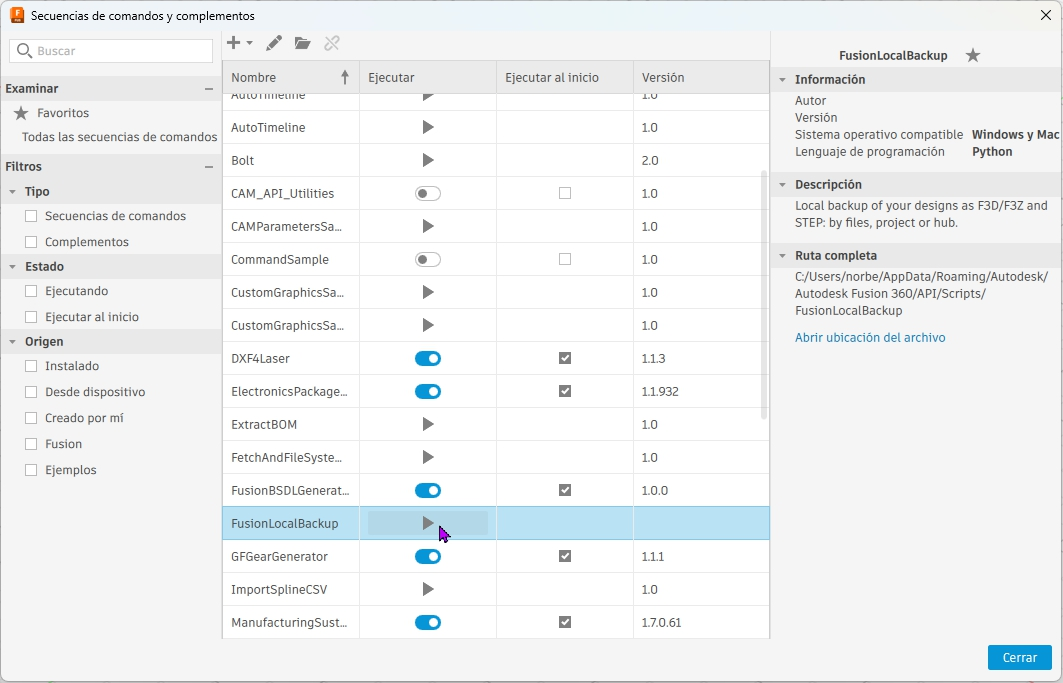
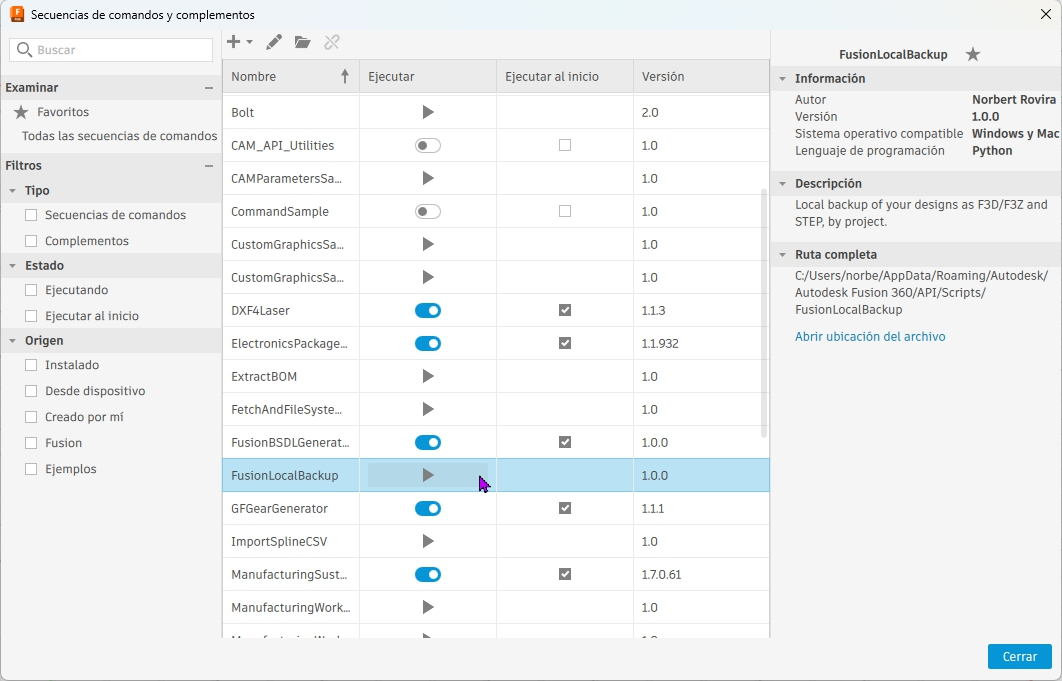
Boton Examinar alineado y capturas nuevas en espanol e ingles
Claude-Session: https://claude.ai/code/session_01CLQ17UXGdRB5BnuvPhnvtq

diff --git a/FusionLocalBackup/FusionLocalBackup.py b/FusionLocalBackup/FusionLocalBackup.py
@@ -715,8 +715,8 @@ class CreatedHandler(adsk.core.CommandCreatedEventHandler):
             default_folder = settings.get('folder') or os.path.join(
                 os.path.expanduser('~'), 'FusionLocalBackup')
             inputs.addStringValueInput(ID_FOLDER, t('out_folder'), default_folder)
-            browse = inputs.addBoolValueInput(ID_BROWSE, t('browse'), False, '', False)
-            browse.isFullWidth = True
+            browse = inputs.addBoolValueInput(ID_BROWSE, ' ', False, '', False)
+            browse.text = t('browse')
             inputs.addBoolValueInput(ID_FORCE, t('force'), True, '', False)
             inputs.addTextBoxCommandInput(
                 ID_INFO, '', t('info').format(app.data.activeHub.name), 3, True)

diff --git a/docs/guide.md b/docs/guide.md
@@ -21,9 +21,7 @@ This guide explains how to install the script, make your first backup and keep i
 
 The script shows up in the list as **FusionLocalBackup**. You only need to install it once.
 
-The screenshots in this guide were taken with Fusion in Spanish.
-
-![Scripts and Add-Ins window with FusionLocalBackup in the list](img/scripts.jpg)
+![Scripts and Add-Ins window with FusionLocalBackup in the list](img/scripts-en.jpg)
 
 To update it later, download the new version and replace the files in that folder.
 
@@ -32,7 +30,7 @@ To update it later, download the new version and replace the files in that folde
 1. In the Scripts and Add-Ins window, find **FusionLocalBackup** and click the ▶ icon in the **Run** column.
 2. The script's dialog opens, with these options:
 
-![Fusion Local Backup dialog](img/dialogo.jpg)
+![Fusion Local Backup dialog](img/dialog-en.jpg)
 
 | Option | What it is for |
 |---|---|
@@ -62,6 +60,8 @@ You can click **Cancel** at any time. The script finishes the design it has open
 When it finishes, a summary appears:
 
 ![Final summary of a backup](img/resumen.png)
+
+*This screenshot was taken with Fusion in Spanish.*
 
 ## What you will find in the destination folder
 
